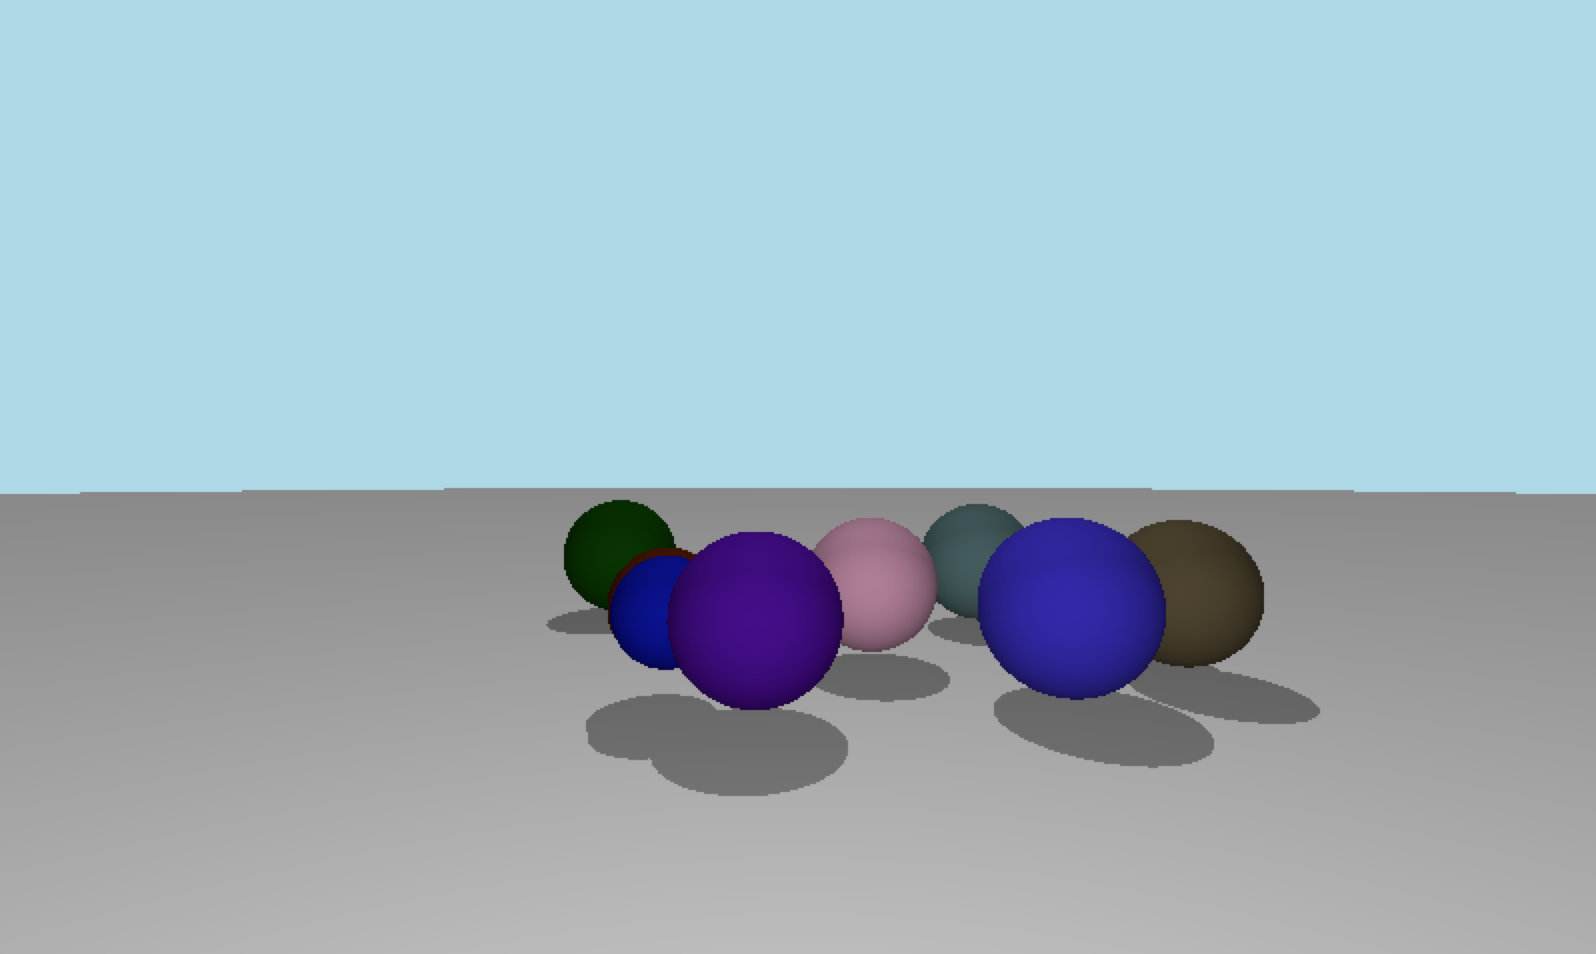
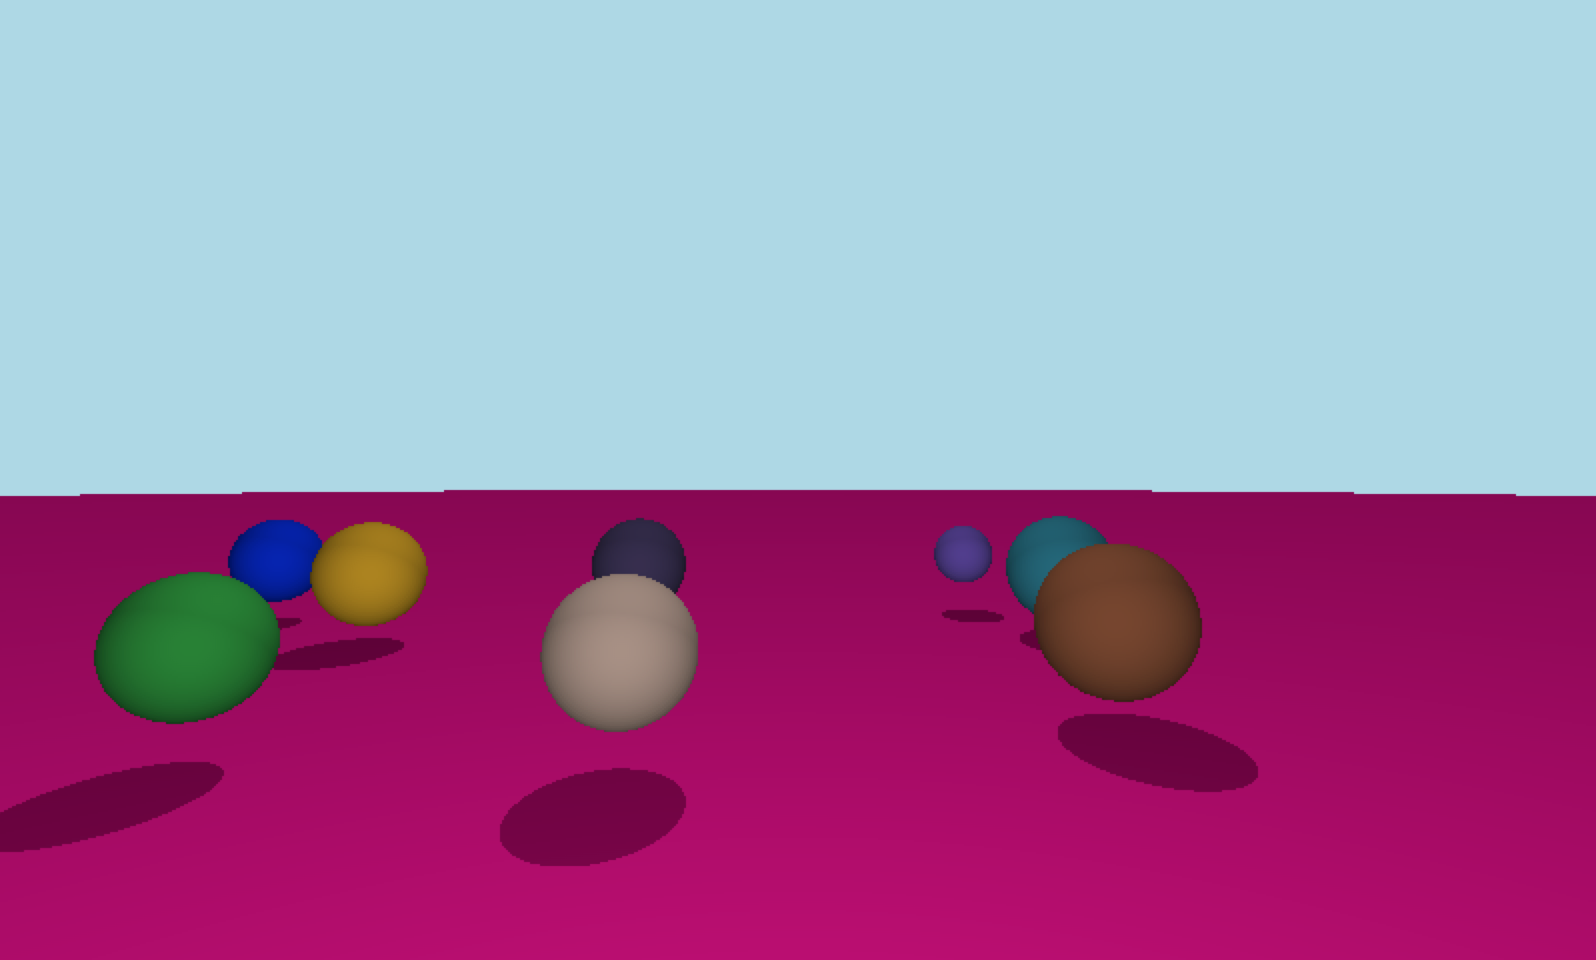
Change render image

diff --git a/main.py b/main.py
@@ -83,7 +83,7 @@ demo_world = World(width=800, height=620)
 
 sphere_1 = Sphere(center=Vec3(-1, -0.5, 5), radius=1.7, color = Vec3(1,0,0))
 sphere_2 = Sphere(center=Vec3(2, -0.7, 5), radius=1.7, color = Vec3(1,1,0))
-sphere_3 = Sphere(center=Vec3(0, 5001, 3), radius=5000, color = Vec3(1,1,1))
+sphere_3 = Sphere(center=Vec3(0, 5001, 3), radius=5000, color = Vec3(1,0,0.6))
 
 light_1 = PointLight(type='point', position=Vec3(0,0,0), intensity=0.4)
 light_2 = AmbientLight(type='ambient', position=Vec3(0,-0.6,0.5), intensity=0.3)
